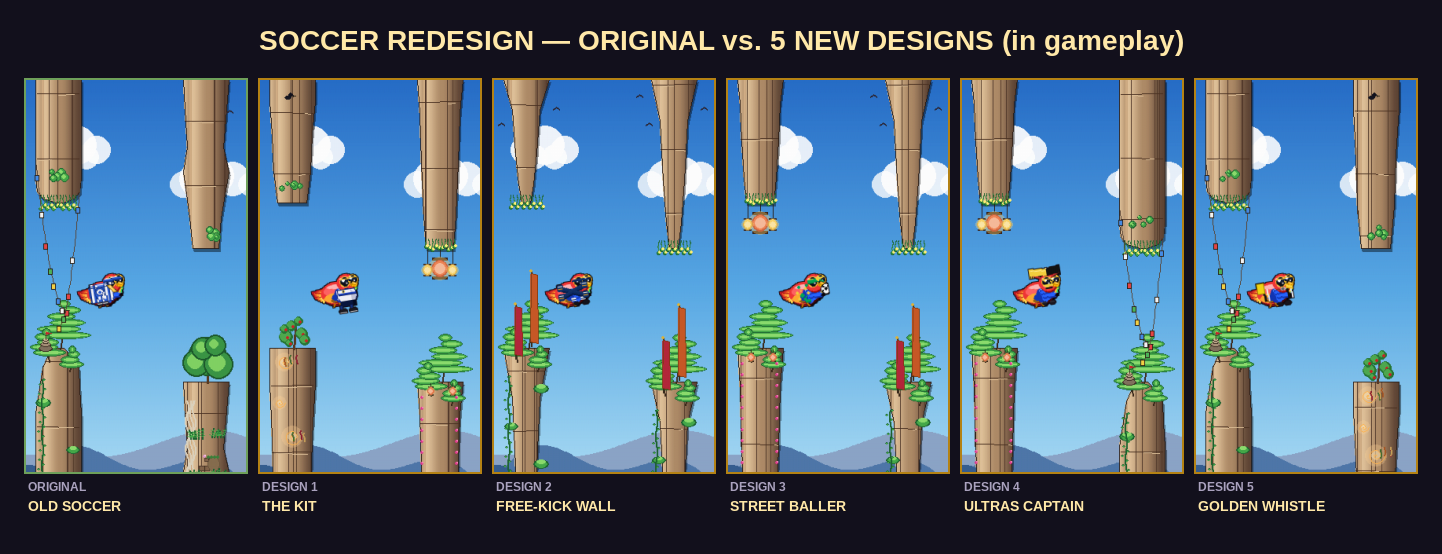
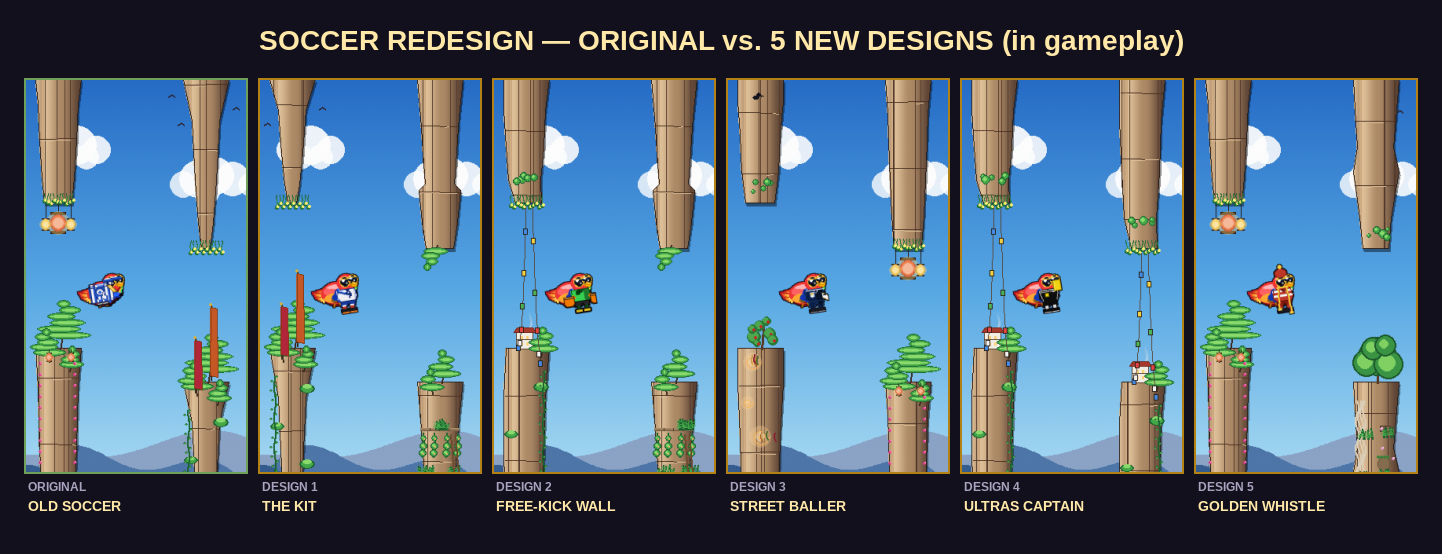
Soccer v6 R2 partial: D3/D4/D5 builders + comparison update (in-progress)

diff --git a/tools/soccer_candidates/design_4.py b/tools/soccer_candidates/design_4.py
@@ -18,9 +18,10 @@ import pygame
 from game import store_skins
 from game.store_skins import HX, HY, CROWN_Y, _poly
 
-# All-black authority kit — one near-black body value so the yellow card is the
-# single bright element that carries the read at 40px.
-REF_BLACK  = (16, 16, 16)          # #101010 jersey / shorts / cleats
+# All-black authority kit, but with internal value steps so the four-layer
+# stack (jersey → shorts → socks → cleats) never collapses into one black column.
+REF_BLACK  = (16, 16, 16)          # #101010 jersey / cleats
+SHORT_COL  = (28, 28, 28)          # #1C1C1C shorts — a hair lifted off the jersey
 SOCK_COL   = (24, 24, 24)          # #181818 sock body (a hair lifted off the kit)
 HOOP_COL   = (224, 224, 224)       # #E0E0E0 white sock hoop
 STRIPE_COL = (224, 224, 224)       # #E0E0E0 white cleat sole stripe
@@ -40,51 +41,45 @@ def _paint(surf, _a):
     jersey = [(HX - 13, HY + 8), (HX - 14, HY + 18), (HX - 10, HY + 23),
               (HX + 8, HY + 23), (HX + 11, HY + 18), (HX + 9, HY + 8)]
     _poly(surf, REF_BLACK, jersey)
-    # White collar piping — two thin lines at the jersey top (bright over dim).
+    # ONE white collar line — a single seam of relief on the black. A second line
+    # only reads as sub-pixel noise at the 40px downscale, so it is dropped.
     pygame.draw.line(surf, (240, 240, 240), (HX - 12, HY + 9), (HX + 10, HY + 9), 1)
-    pygame.draw.line(surf, (180, 180, 180), (HX - 12, HY + 11), (HX + 10, HY + 11), 1)
     # White sleeve-edge piping down each side so the black shirt has a seam.
     pygame.draw.line(surf, (200, 200, 200), (HX - 13, HY + 9), (HX - 10, HY + 22), 1)
     pygame.draw.line(surf, (200, 200, 200), (HX + 11, HY + 9), (HX + 8, HY + 22), 1)
 
-    # Breast pocket with a yellow card peeking out — a tiny yellow tab above the
-    # pocket edge so it reads as a spare card tucked in the shirt (the second,
-    # quieter yellow that ties the identity to the torso, not just the raised hand).
-    pygame.draw.rect(surf, CARD_YEL, (HX - 6, HY + 13, 5, 5))
-    pygame.draw.rect(surf, CARD_DARK, (HX - 6, HY + 13, 5, 5), 1)
-
-    # Whistle on a cord — a short dark cord arc from the collar to a small silver
-    # whistle body, the classic ref cue kept low-value so it doesn't fight the card.
-    pygame.draw.lines(surf, (48, 48, 48), False,
-                      [(HX - 2, HY + 9), (HX + 1, HY + 12), (HX + 4, HY + 12)], 1)
-    pygame.draw.rect(surf, (196, 200, 208), (HX + 4, HY + 11, 3, 2))
-    pygame.draw.line(surf, (240, 244, 250), (HX + 4, HY + 11), (HX + 6, HY + 11), 1)
+    # Plain black breast pocket — no competing yellow on the torso; the ONE
+    # yellow in the piece is the raised card, kept unrivalled for the hero read.
+    pygame.draw.rect(surf, (8, 8, 8), (HX - 6, HY + 13, 5, 5))
 
     # ── SHORTS — all-black with the crotch notch so the legs read as two, not a
     #    skirt; kept inside the footprint on the feet line.
     shorts = [(HX - 10, HY + 23), (HX - 11, HY + 29), (HX - 3, HY + 29),
               (HX - 2, HY + 26), (HX, HY + 26), (HX + 1, HY + 29),
               (HX + 7, HY + 29), (HX + 8, HY + 23)]
-    _poly(surf, REF_BLACK, shorts)
+    _poly(surf, SHORT_COL, shorts)
 
-    # ── SOCKS — black body with a white hoop at the top over each shin.
+    # ── SOCKS — black body with a bold white hoop over the full HY+29→HY+33 band
+    #    so the sock layer separates cleanly from shorts and cleats at 40px.
     for sx in (HX - 7, HX + 3):
         pygame.draw.line(surf, SOCK_COL, (sx, HY + 29), (sx, HY + 37), 4)
-        pygame.draw.line(surf, HOOP_COL, (sx, HY + 29), (sx, HY + 32), 4)
+        pygame.draw.line(surf, HOOP_COL, (sx, HY + 29), (sx, HY + 33), 4)
 
-    # ── CLEATS — black boots with a white sole stripe at the two feet (x≈36, 46).
+    # ── CLEATS — black boots with a bold white sole stripe (2px) at the two feet.
     for fx in (HX - 11, HX - 1):
         pygame.draw.rect(surf, CLEAT_COL, (fx, HY + 33, 10, 5), border_radius=2)
-        pygame.draw.line(surf, STRIPE_COL, (fx + 1, HY + 37), (fx + 9, HY + 37), 1)
+        pygame.draw.line(surf, STRIPE_COL, (fx + 1, HY + 37), (fx + 9, HY + 37), 2)
 
-    # ── HERO PROP · YELLOW CARD — drawn LAST so it sits in front of the entire
-    #    black kit: a bright yellow card brandished HIGH in the near (right) wing.
-    #    It is the single brightest AND largest element, the referee's whole tell,
-    #    lifted toward the crown so it breaks the silhouette against open sky.
-    pygame.draw.rect(surf, CARD_YEL, (HX + 6, HY - 2, 10, 14), border_radius=1)
-    pygame.draw.rect(surf, CARD_DARK, (HX + 6, HY - 2, 10, 14), 1)
-    # Left-edge highlight so the flat yellow face reads as a lit, held card.
-    pygame.draw.line(surf, CARD_YEL_H, (HX + 7, HY - 1), (HX + 7, HY + 11), 1)
+    # ── HERO PROP · YELLOW CARD — drawn LAST so it sits in front of everything.
+    #    Pushed OUTBOARD into clear sky to the right of the head (HX+12) so it no
+    #    longer fuses with Pip's yellow beak; isolation against sky is what makes
+    #    the card the unmistakable hero read at the 40px downscale.
+    pygame.draw.rect(surf, CARD_YEL, (HX + 12, HY - 6, 11, 15), border_radius=1)
+    pygame.draw.rect(surf, (140, 120, 0), (HX + 12, HY - 6, 11, 15), 1, border_radius=1)
+    # Left-edge glint so the flat yellow face reads as a lit, held card.
+    pygame.draw.line(surf, CARD_YEL_H, (HX + 13, HY - 5), (HX + 13, HY + 8), 1)
+    # Dark grip block at the card's base — reads as the wing/hand holding it aloft.
+    pygame.draw.rect(surf, (20, 20, 20), (HX + 11, HY + 7, 5, 3), border_radius=1)
 
 
 build = store_skins._make_skin(_paint)

diff --git a/tools/soccer_candidates/design_5.py b/tools/soccer_candidates/design_5.py
@@ -23,12 +23,13 @@ from game.store_skins import HX, HY, CROWN_Y, _poly
 _RED       = (192, 57, 43)         # #C0392B club red
 _WHITE     = (245, 245, 245)       # #F5F5F5 hoop / sock white
 _RED_DK    = (120, 30, 20)         # jersey outline / dark red V collar
-_SHORT_RED = (139, 30, 16)         # #8B1E10 deep-red shorts
-_SHORT_DK  = (90, 20, 10)          # shorts outline
+_SHT       = (55, 10, 8)           # near-black maroon shorts — one value below the red jersey
+_SHORT_DK  = (30, 5, 4)            # shorts outline
 _SOCK_COL  = (245, 245, 245)       # white sock body
 _HOOP_COL  = (192, 57, 43)         # red sock hoop
 _CLEAT_COL = (28, 28, 36)          # #1C1C24 near-black cleats
 _GOLD      = (244, 208, 63)        # #F4D03F scarf / pompom gold
+_GOLD_DK   = (120, 80, 0)          # dark gold throat-loop edge
 
 
 def _paint(surf, _a):
@@ -39,21 +40,26 @@ def _paint(surf, _a):
     jersey = [(HX - 13, HY + 8), (HX - 14, HY + 18), (HX - 10, HY + 23),
               (HX + 8, HY + 23), (HX + 11, HY + 18), (HX + 9, HY + 8)]
     _poly(surf, _RED, jersey)  # red base
+    # THREE fat 4px white bands over the red base — thin lines vanish against a
+    # red bird at 40px, so the hoops must be wide enough to survive downscale
+    # and read as a white-dominant hooped supporter kit.
     clip_prev = surf.get_clip()
-    surf.set_clip(pygame.Rect(HX - 14, HY + 8, 26, 16))
-    for sy in (HY + 10, HY + 16):
-        pygame.draw.line(surf, _WHITE, (HX - 14, sy), (HX + 12, sy), 3)
+    surf.set_clip(pygame.Rect(HX - 14, HY + 8, 26, 17))
+    for sy in (HY + 9, HY + 14, HY + 19):
+        pygame.draw.line(surf, _WHITE, (HX - 14, sy), (HX + 13, sy), 4)
     surf.set_clip(clip_prev)
     pygame.draw.polygon(surf, _RED_DK, jersey, 1)  # dark outline
     # Dark-red V collar at the jersey top so the neck reads as a shirt opening.
     _poly(surf, _RED_DK, [(HX - 4, HY + 8), (HX + 4, HY + 8), (HX, HY + 12)])
 
-    # ── SHORTS — deep red with a crotch notch so the legs read as two limbs, not
-    #    one skirt. 1px dark outline rounds the cloth.
+    # ── SHORTS — near-black maroon so they sit a full value below the red
+    #    jersey; that value break (jersey → shorts → white socks → black cleats)
+    #    keeps the four kit layers legible instead of one red smear. Crotch
+    #    notch keeps the legs reading as two limbs.
     shorts = [(HX - 10, HY + 23), (HX - 11, HY + 29), (HX - 3, HY + 29),
               (HX - 2, HY + 26), (HX, HY + 26), (HX + 1, HY + 29),
               (HX + 7, HY + 29), (HX + 8, HY + 23)]
-    _poly(surf, _SHORT_RED, shorts)
+    _poly(surf, _SHT, shorts)
     pygame.draw.polygon(surf, _SHORT_DK, shorts, 1)
 
     # ── SOCKS — white body, red hoop at the top (the club sock band).
